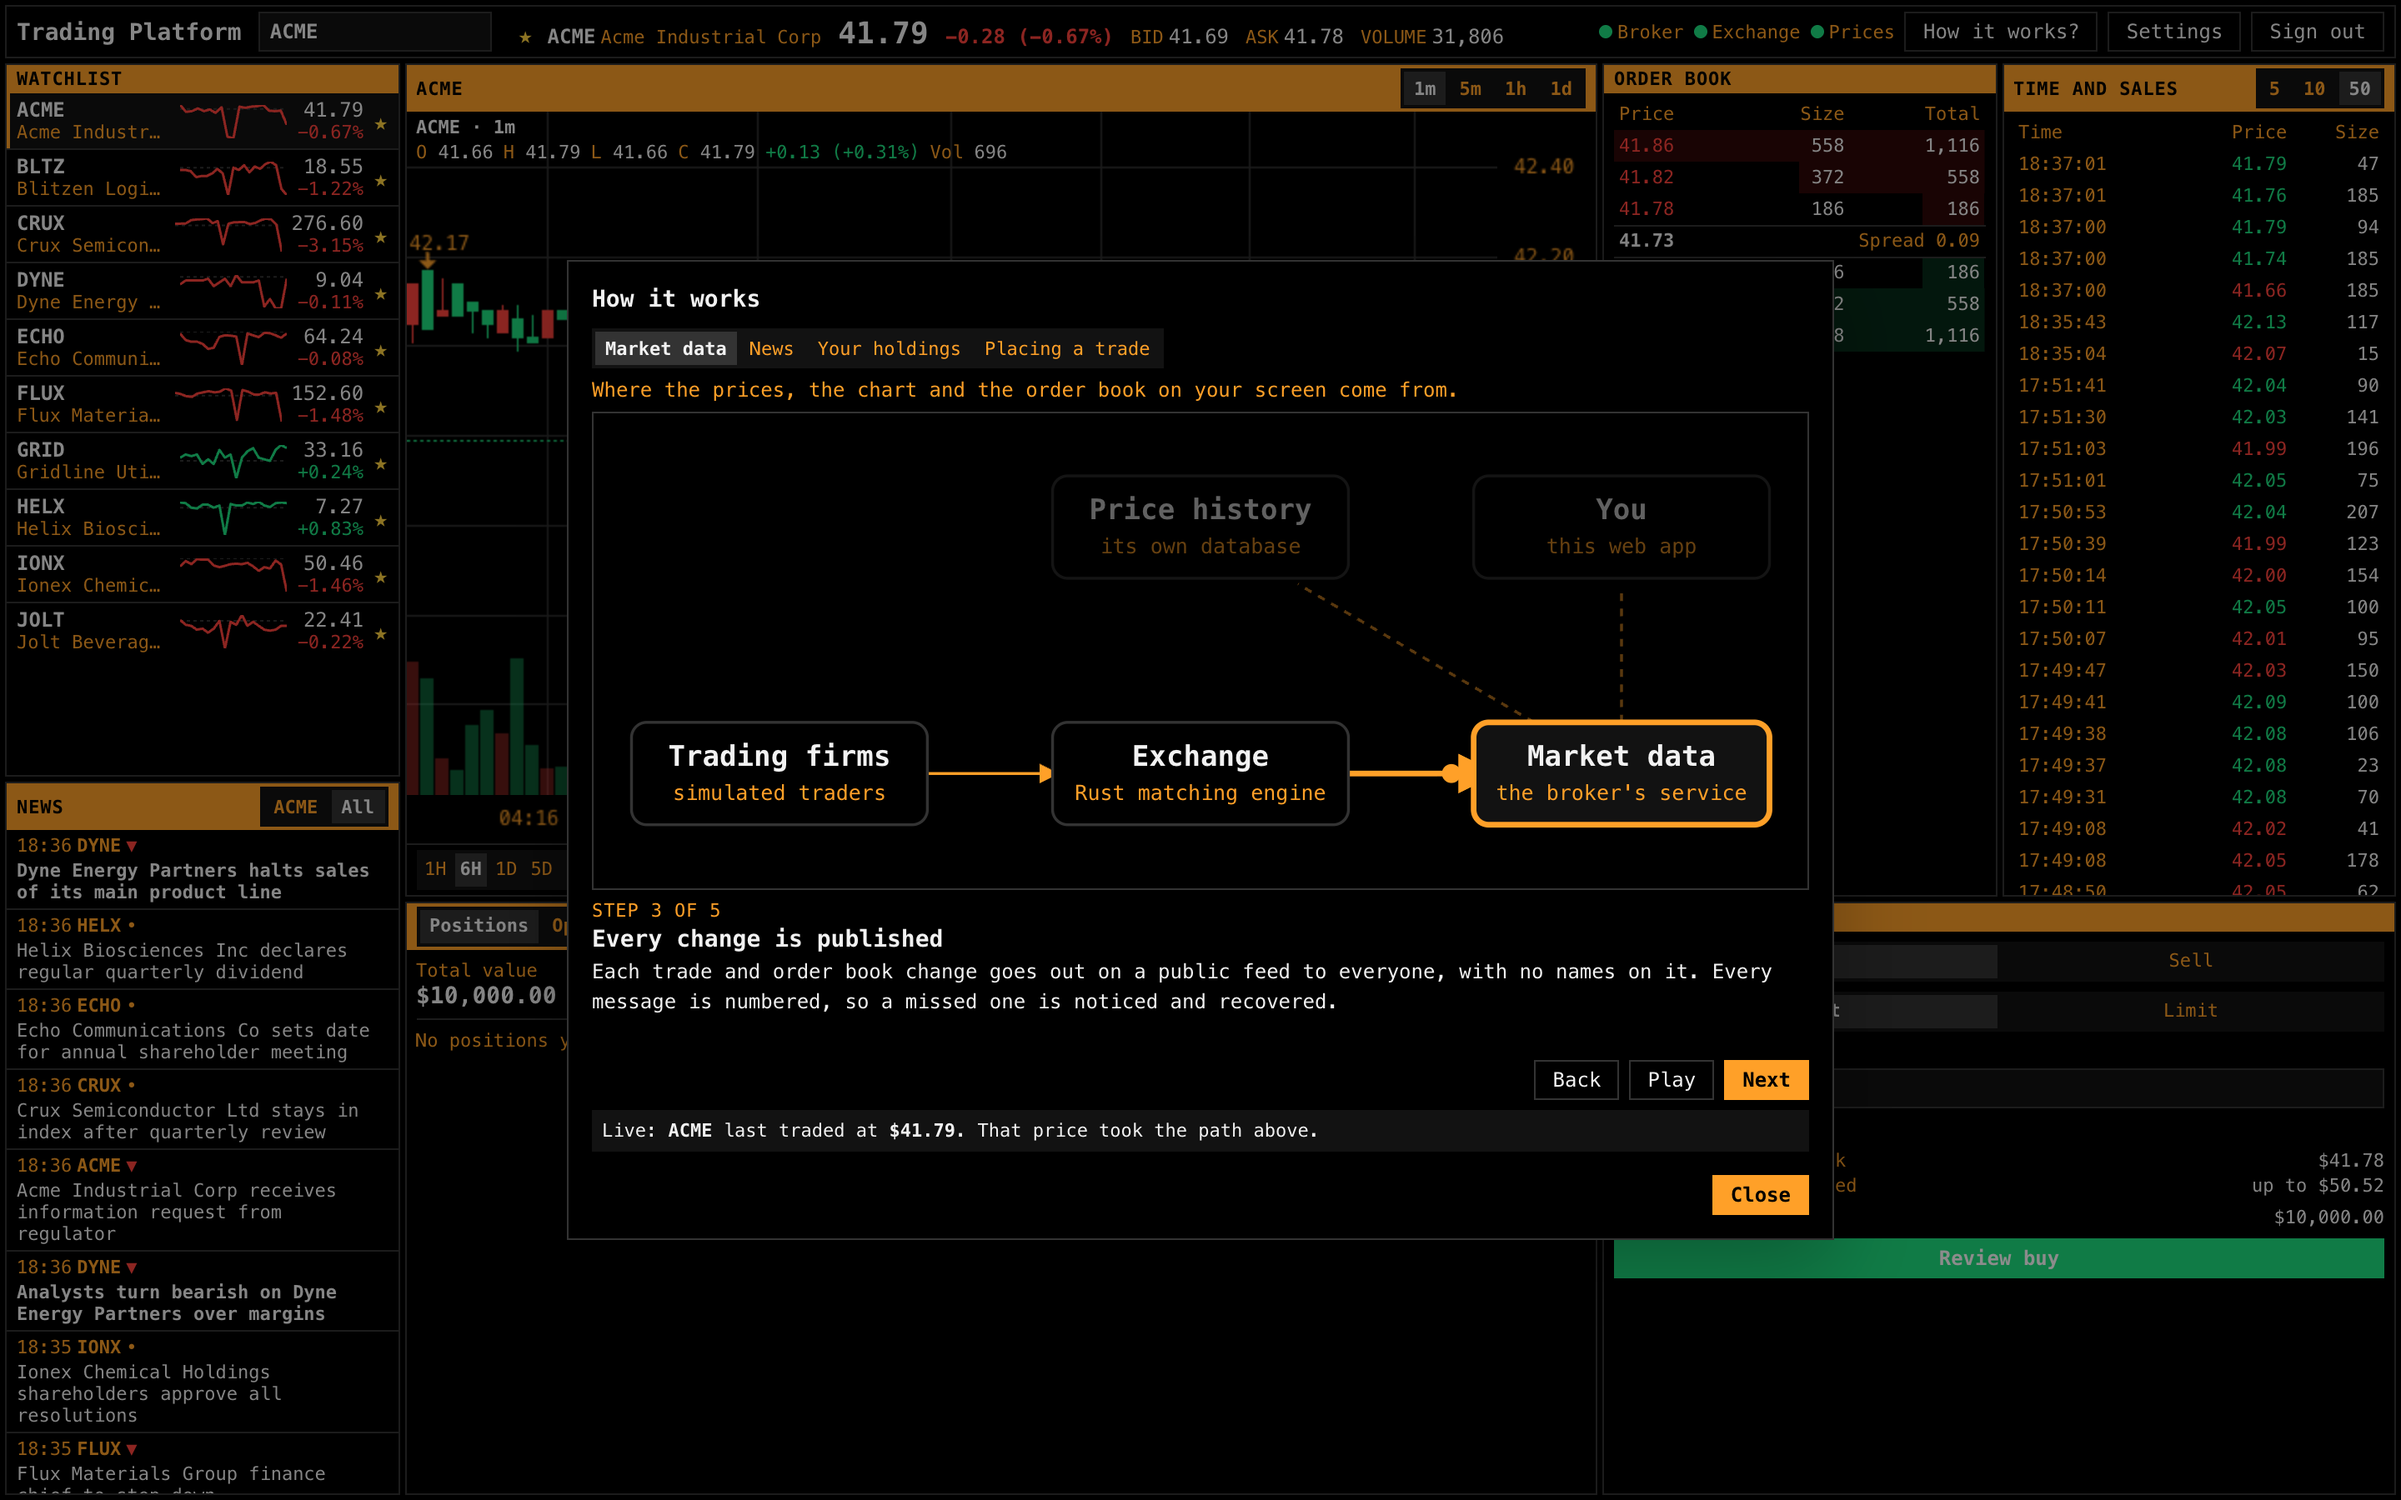
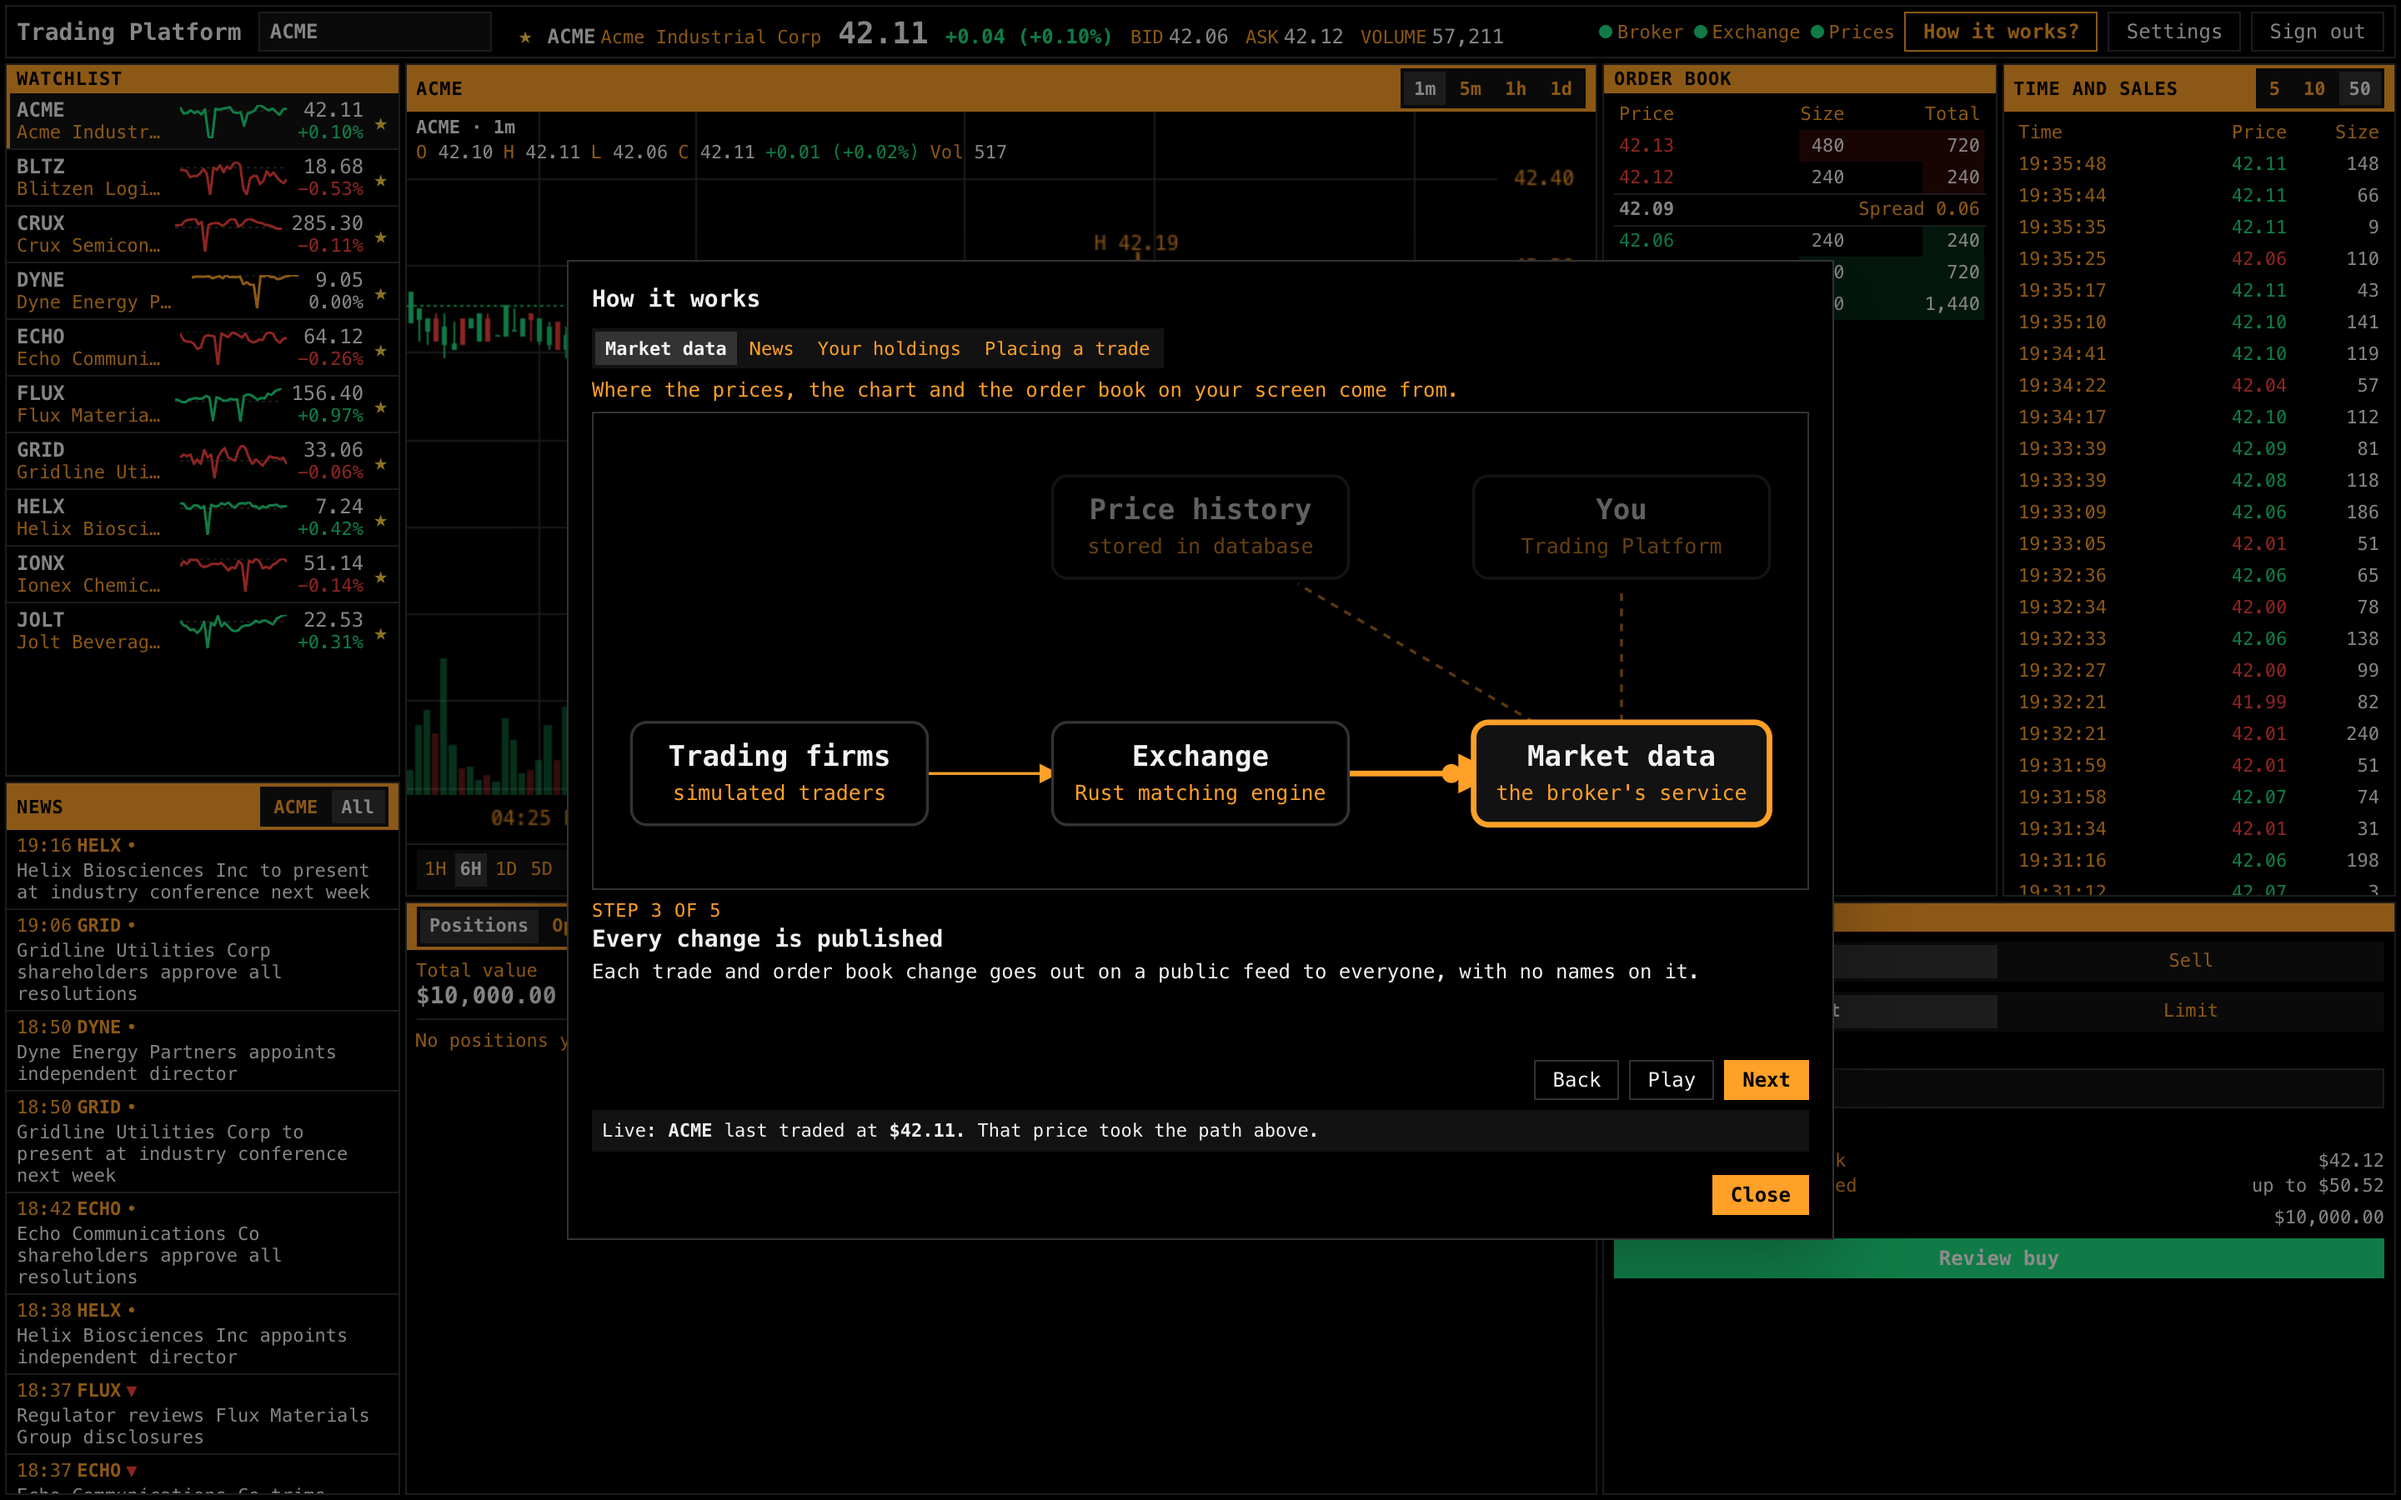
docs: the guide's ways in in ADR 0007, web TODO and backlog; new screenshots

diff --git a/docs/adr/0007-how-it-works-guide-in-hand-drawn-svg.md b/docs/adr/0007-how-it-works-guide-in-hand-drawn-svg.md
@@ -74,6 +74,15 @@ Options 2 and 7.
   users who ask their system for reduced motion.
 - **A live line under each diagram** ties it to the screen: the selected symbol's last
   trade price, the latest headline, or the user's cash right now.
+- **Three ways in,** so people know it exists without being made to sit through it:
+  - the top bar button is in the accent colour, with a dot until this browser has opened
+    the guide once (`guideSeen` in the saved settings);
+  - the sign-in page has a link to it, for a visitor deciding whether to sign up (the guide
+    works without an account, minus the live lines);
+  - a new account gets a welcome toast with a button that opens it.
+
+  Opening it on its own at the first visit, and a banner, were rejected: both cost every
+  user attention to reach the ones who want it.
 - **Animation is SVG and CSS only** (`<animateMotion>`). A motion library can be added later
   if the animations outgrow that.
 
@@ -93,5 +102,5 @@ four fixed diagrams do not need.
 - **Boxes are placed by hand.** Adding a fifth box to a flow means choosing its position.
   That is fine at this size; a flow that needed automatic layout would be a sign the guide
   is saying too much.
-- **Later, if wanted** (in `docs/BACKLOG.md`): open the guide once on a new account's first
-  visit, and a "See what just happened" link after an order fills that opens the trade tab.
+- **Later, if wanted** (in `docs/BACKLOG.md`): a "See what just happened" link after an
+  order fills that opens the trade tab.

diff --git a/broker/web/TODO.md b/broker/web/TODO.md
@@ -430,6 +430,12 @@ they read in every style and mode.
     check every flow's data holds together and the arrow geometry.
   - Checked against the real stack in Active dark, Terminal and Calm light, and at phone
     width (no sideways scroll; the diagram scales down).
+  - **Ways in:** the button is in the accent colour (an inset outline in Calm, which draws
+    no borders), with a dot until this browser has opened the guide once (`guideSeen` in
+    `settings.ts`). The sign-in page links to it, without the live lines since there is no
+    account yet. A new account gets a welcome toast ("You have $10,000 of pretend cash")
+    with a button that opens it; toasts can now carry one action button. Open or closed is
+    a small store (`features/guide/store.ts`), so any of these can open it.
 
 ## Done when
 

diff --git a/docs/BACKLOG.md b/docs/BACKLOG.md
@@ -22,8 +22,6 @@ way M8 was.
       venue endpoint) and include the worst case in the estimate and buying-power hint.
 - [ ] **Order history paging.** The backend returns the latest 100 orders. Add a cursor
       (`?before=<orderId>`) and "load more" in History when 100 is not enough.
-- [ ] **Open the guide on a first visit.** Show "How it works?" (ADR 0007) once on a new
-      account's first sign-in, with a way to not see it again.
 - [ ] **"See what just happened" after a fill.** A link on the fill confirmation that opens
       the guide's "Placing a trade" tab, so the steps follow the order just placed.
 - [ ] **"Synthetic, no real money" banner.** A small, always-visible note in the web app so
